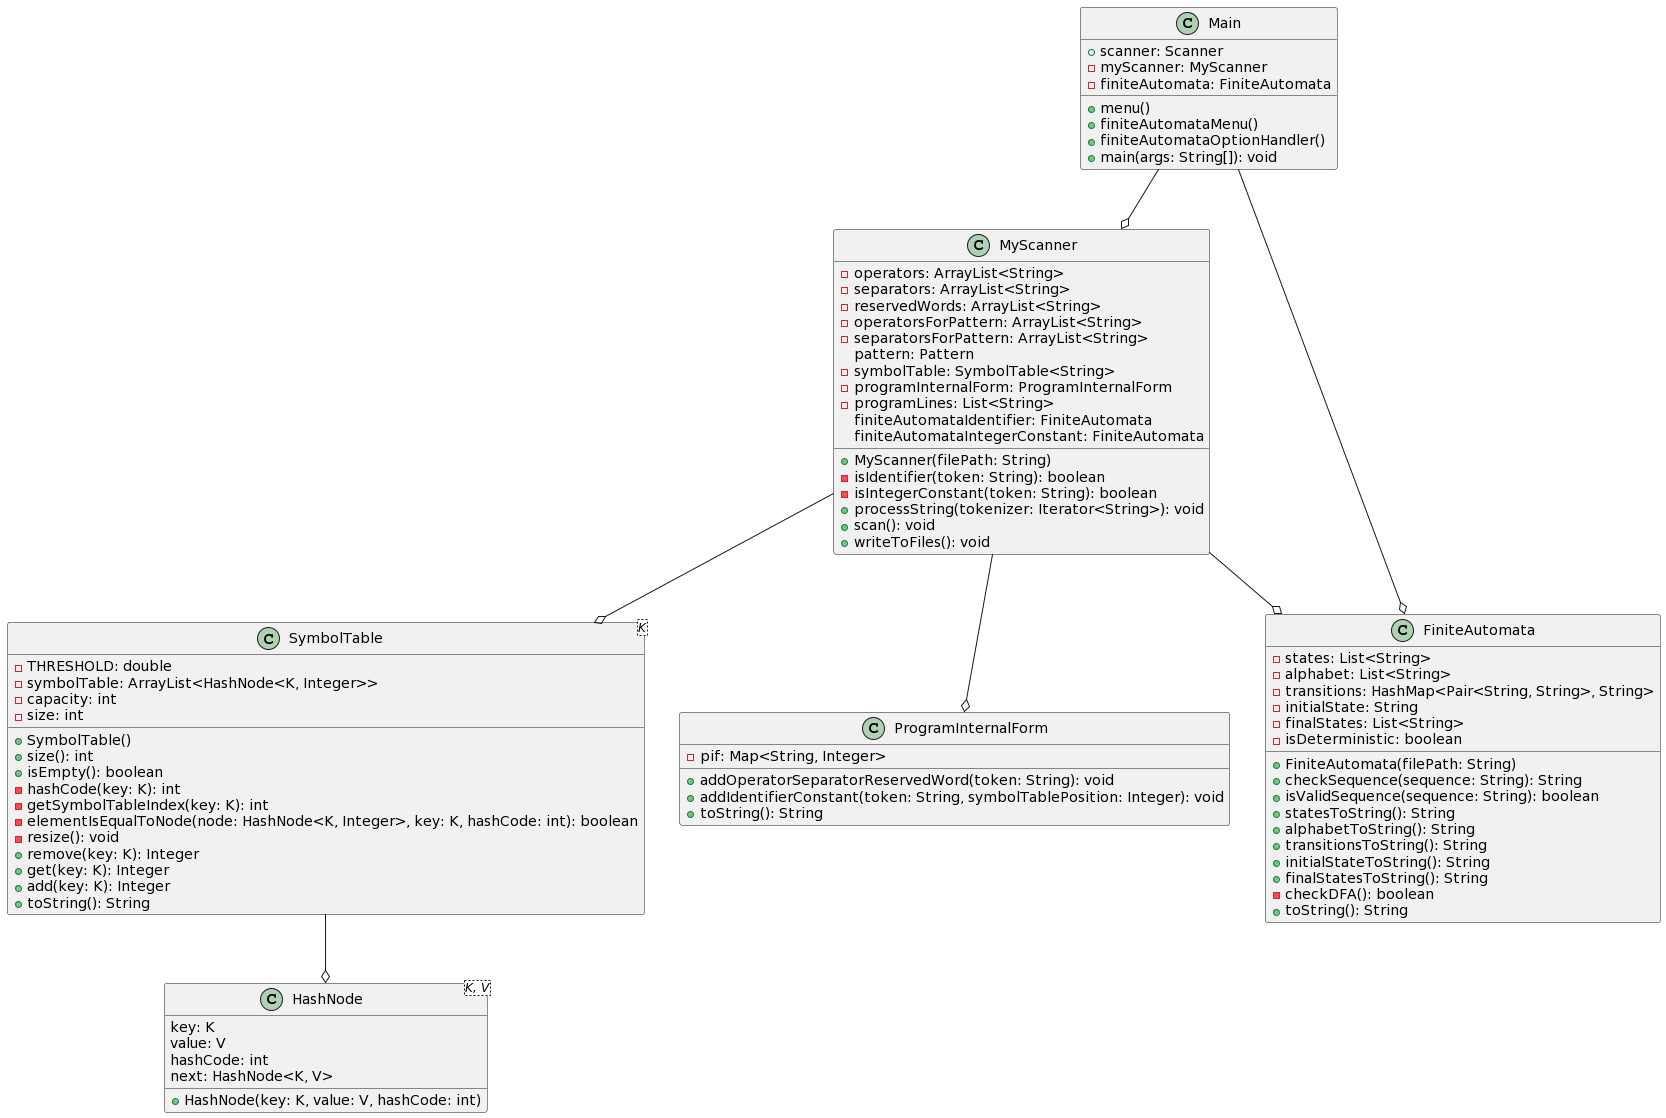
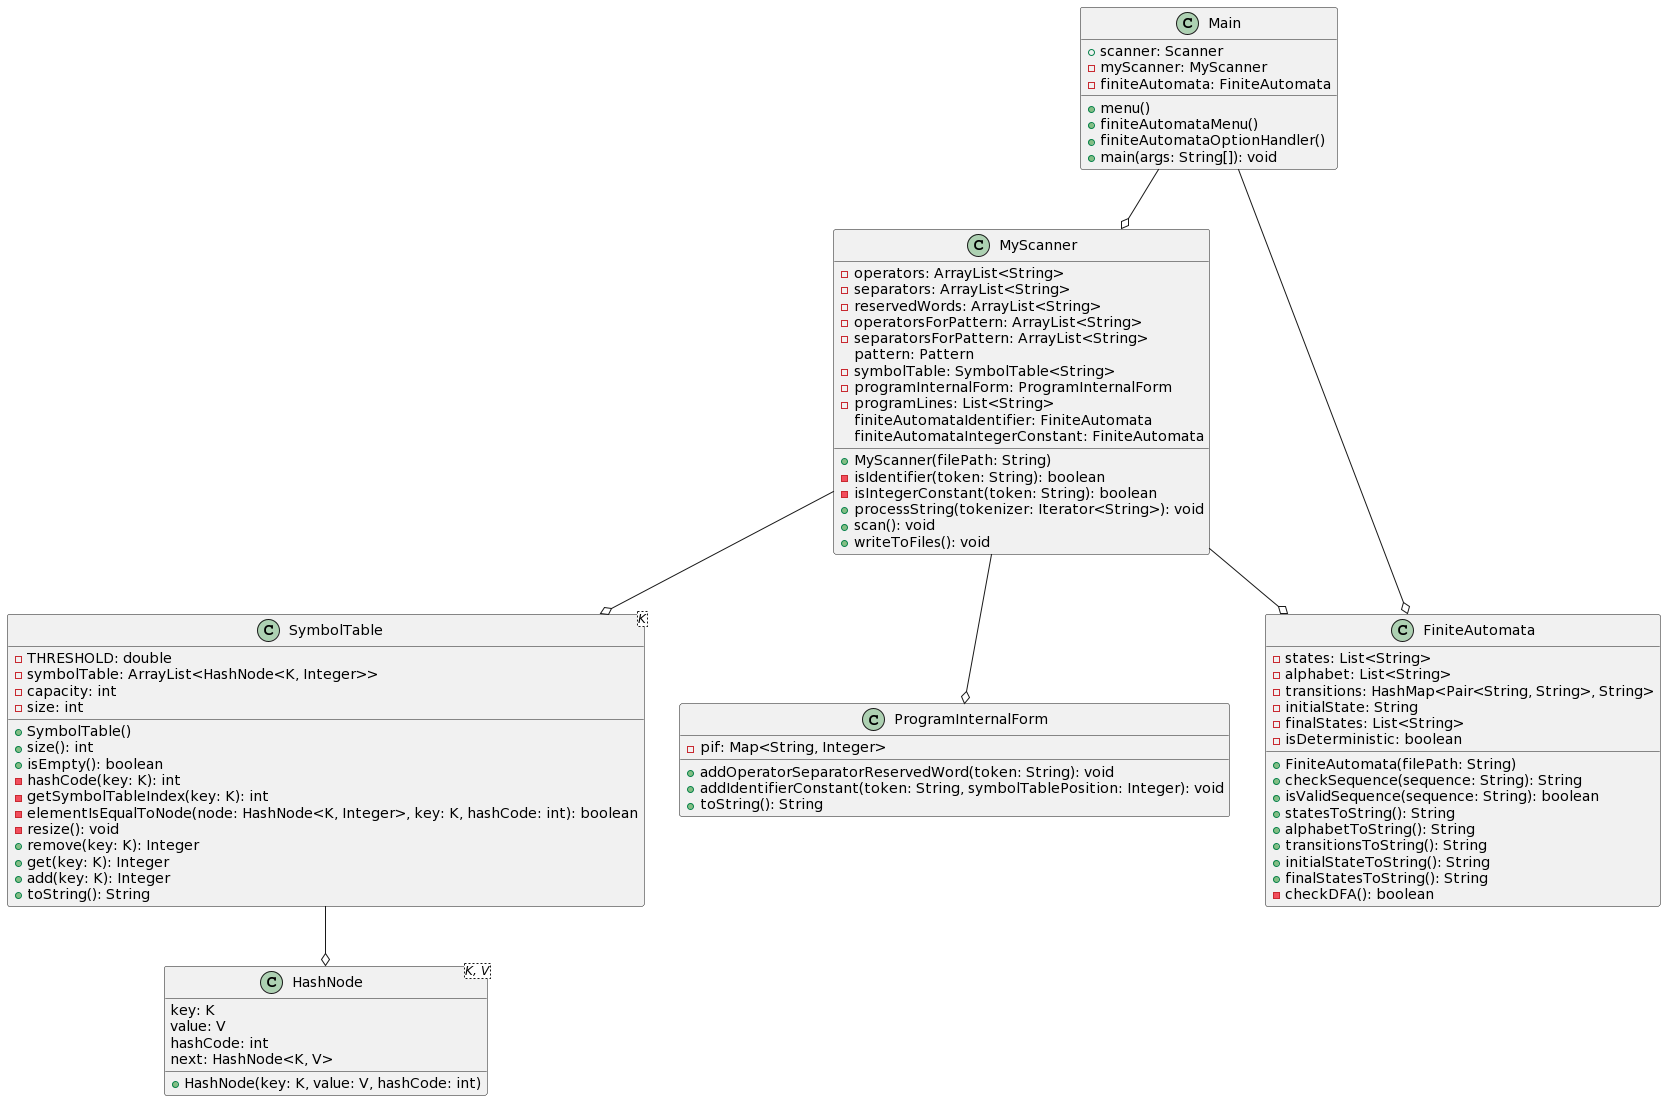
Removed unused toString() method

diff --git a/lab4/src/FiniteAutomata.java b/lab4/src/FiniteAutomata.java
@@ -132,17 +132,4 @@ public class FiniteAutomata {
 
         return true;
     }
-
-
-    @Override
-    public String toString() {
-        return "FiniteAutomata{" +
-                "states=" + states +
-                ", alphabet=" + alphabet +
-                ", transitions=" + transitions +
-                ", initialState='" + initialState + '\'' +
-                ", finalStates=" + finalStates +
-                ", isDeterministic=" + isDeterministic +
-                '}';
-    }
 }
